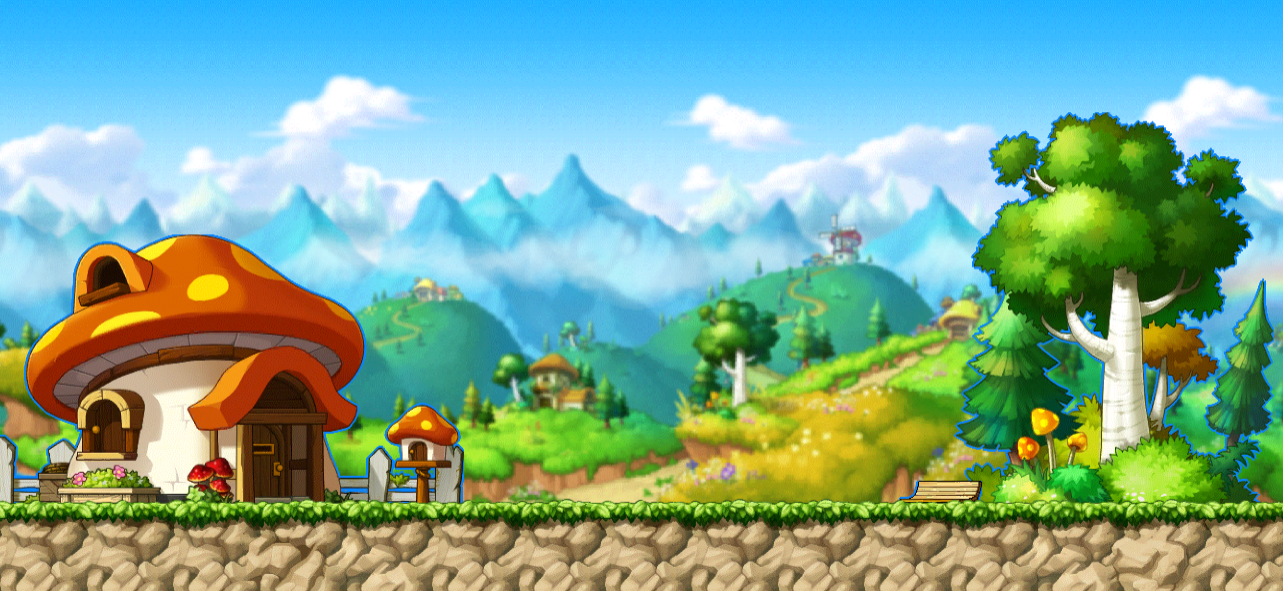
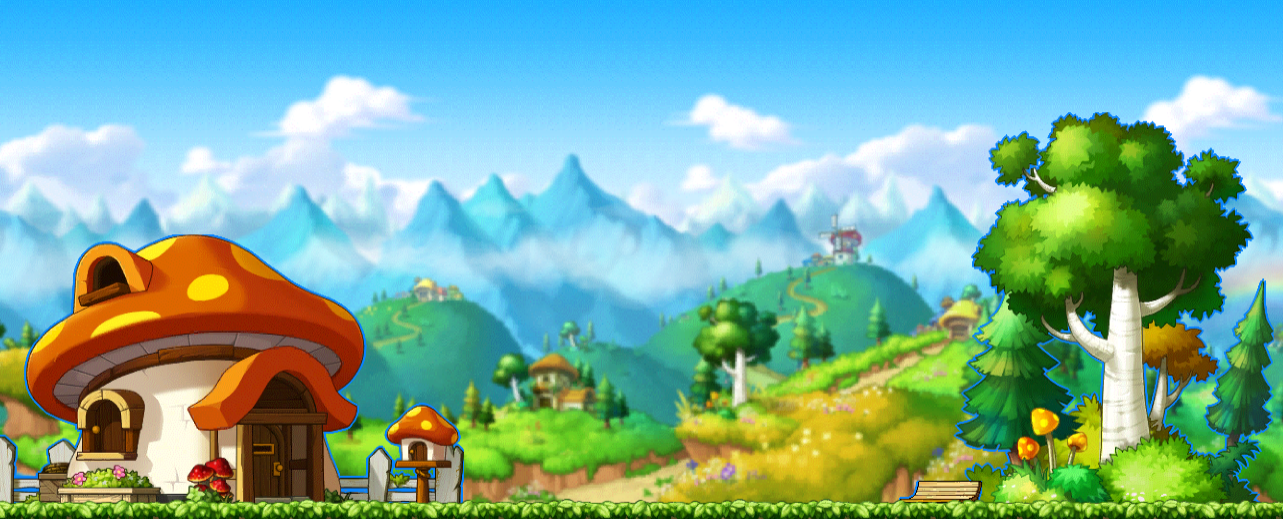
스타일 수정

diff --git a/components/Header.tsx b/components/Header.tsx
@@ -14,19 +14,20 @@ function Header() {
 
 const StyledHeader = styled.header`
   display: flex;
+  justify-content: center;
   gap: 80px;
   background-color: #24b5ff;
-  padding: 30px 80px;
+  padding: 10px 80px;
 
   .char {
-    width: 165px;
-    height: 246px;
+    width: 123px;
+    height: 184px;
   }
 
   .logo {
-    width: 670px;
-    height: 200px;
-    margin-top: 30px;
+    width: 570px;
+    height: 160px;
+    margin-top: 10px;
   }
 `;
 

diff --git a/components/Square.tsx b/components/Square.tsx
@@ -10,7 +10,8 @@ function Square({ value, onSquareClick }: Props) {
 }
 
 const SquareButton = styled.button`
-  color: red;
+  width: 100px;
+  height: 100px;
 `;
 
 export default Square;

diff --git a/components/Footer.tsx b/components/Footer.tsx
@@ -13,7 +13,7 @@ function Footer() {
 const StyledFooter = styled.footer`
   .bg {
     width: 100%;
-    height: 570px;
+    height: 420px;
   }
 `;
 
